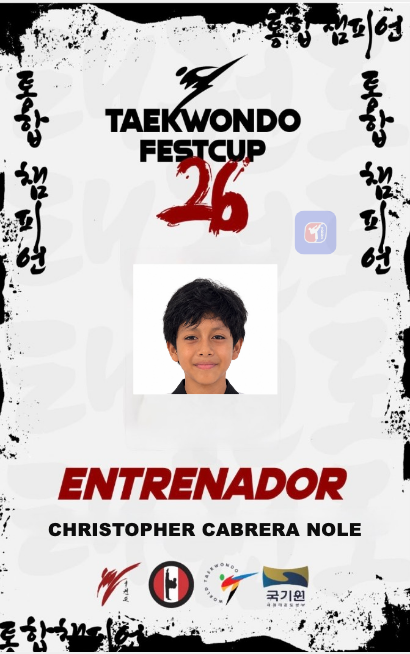
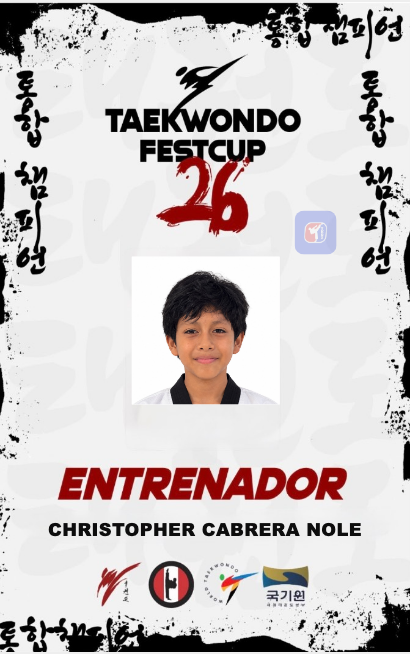
FestCup credencial: recuadro de foto un poco más alto sin mover textos.

Changed region(s): [[0.3805, 0.3976, 0.6146, 0.6422], [0.322, 0.581, 0.3512, 0.6116]]

diff --git a/src/lib/campeonato/credencial-layout.js b/src/lib/campeonato/credencial-layout.js
@@ -6,7 +6,7 @@ export const DEFAULT_CREDENCIAL_LAYOUT = {
 
 /** FestCup 2026 · plantillas limpias (rol en JPG) + foto, nombre, categoría y logo academia */
 export const FESTCUP_2026_CREDENCIAL_LAYOUT = {
-  foto: { type: 'rect', left: 50, top: 50.4, width: 35.6, height: 20.2 },
+  foto: { type: 'rect', left: 50, top: 50.5, width: 36.4, height: 22.6 },
   /** Debajo del rol impreso en la plantilla (DEPORTISTA / ENTRENADOR) */
   nombre: { left: 50, top: 79.6, width: 88 },
   categoria: { left: 50, top: 82.8, width: 88 },
